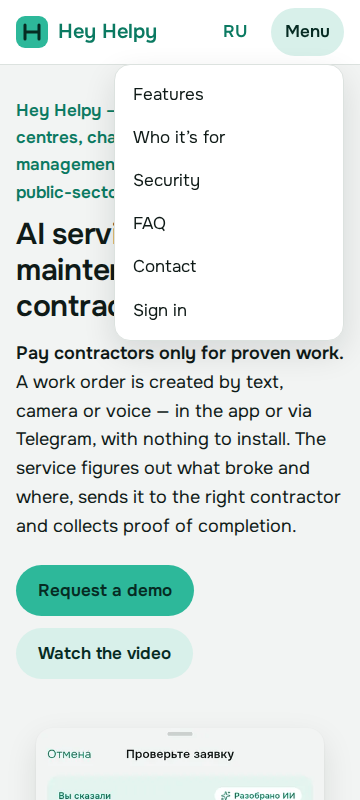
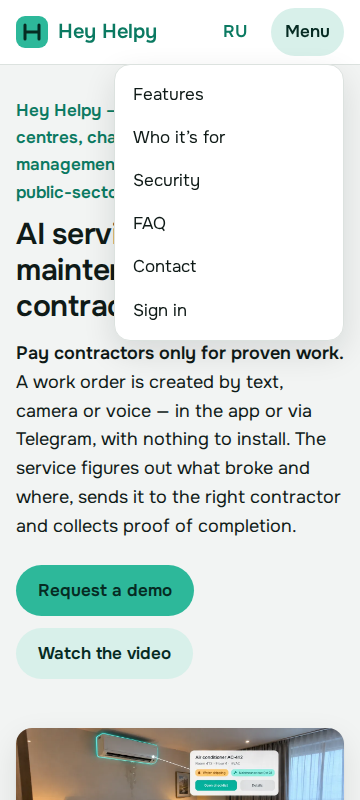
Шаг 33 (блок 7): e2e — английские фразы, все 19 сценариев зелёные; герой сайта 54 КБ, Lighthouse 99–100; снимки сайта 360 px

Changed region(s): [[0.0306, 0.9062, 0.9778, 1.0]]

diff --git a/site/ru/index.html b/site/ru/index.html
@@ -160,7 +160,7 @@
     <p class="lead"><strong>Платим подрядчику только за доказанную работу.</strong> Заявку создают текстом, камерой или голосом — в приложении или в Telegram, без установки. Сервис сам понимает, что и где сломалось, отправляет нужному подрядчику и собирает доказательства выполнения.</p>
     <p class="actions"><a class="btn" href="https://t.me/HeyHelpy_bot?start=demo">Запросить демо</a> <a class="btn ghost" href="#video">Смотреть видео</a></p>
   </div>
-  <figure class="ill "><img src="../img/ill-hotel_ac.webp" width="1600" height="900" alt="Гостиничный номер: над кондиционером — AR-метка с диагностикой и открытой заявкой" fetchpriority="high" decoding="async"><figcaption>Иллюстрация</figcaption></figure>
+  <figure class="ill "><img src="../img/ill-hotel_ac.webp" width="1200" height="675" alt="Гостиничный номер: над кондиционером — AR-метка с диагностикой и открытой заявкой" fetchpriority="high" decoding="async"><figcaption>Иллюстрация</figcaption></figure>
 </section>
 
 <section aria-labelledby="problem">

diff --git a/site/index.html b/site/index.html
@@ -160,7 +160,7 @@
     <p class="lead"><strong>Pay contractors only for proven work.</strong> A work order is created by text, camera or voice — in the app or via Telegram, with nothing to install. The service figures out what broke and where, sends it to the right contractor and collects proof of completion.</p>
     <p class="actions"><a class="btn" href="https://t.me/HeyHelpy_bot?start=demo">Request a demo</a> <a class="btn ghost" href="#video">Watch the video</a></p>
   </div>
-  <figure class="ill "><img src="img/ill-hotel_ac.webp" width="1600" height="900" alt="Hotel room: an AR label above the air conditioner with diagnostics and an open work order" fetchpriority="high" decoding="async"><figcaption>Illustration</figcaption></figure>
+  <figure class="ill "><img src="img/ill-hotel_ac.webp" width="1200" height="675" alt="Hotel room: an AR label above the air conditioner with diagnostics and an open work order" fetchpriority="high" decoding="async"><figcaption>Illustration</figcaption></figure>
 </section>
 
 <section aria-labelledby="problem">

diff --git a/docs/reports/step-33.md b/docs/reports/step-33.md
@@ -8,9 +8,9 @@
 - [x] 1. Название «Hey Helpy» везде, английский по умолчанию
 - [x] 2. Убрать Россию и СНГ из того, что видят люди
 - [x] 3. Поставщик ИИ — через настройки (`_shared/ai.ts`, секреты `AI_*`)
-- [ ] 4. Демо-данные на английском (Refresh demo сам переименовывает)
-- [ ] 5. Новые изображения в приложении и на сайте
-- [ ] 6. Кадры и документы на английском
+- [x] 4. Демо-данные на английском (Refresh demo сам переименовывает)
+- [x] 5. Новые изображения в приложении и на сайте
+- [x] 6. Кадры и документы на английском
 - [ ] 7. Проверки и отчёт
 
 ## Что сделано
@@ -54,6 +54,55 @@
 - `CLAUDE.md` → «Edge Functions»: новые секреты и как переключить. Функции **не выкладывал**.
 - ⚠ Имена моделей и адреса Yandex в коде остались (`ai.ts`, `vision.ts`, `stt.ts`) — они нужны для работы по умолчанию; людям они не видны.
 
+### 4. Демо-данные на английском
+**Refresh demo сам переименовывает всё по постоянным id** — в SQL Editor ничего делать не нужно.
+- `supabase/seed/demo_history.sql` и `demo.sql`: 353 строковых значения переведены таблицей соответствий (заявки, описания, чек-листы, планы ТО, помещения, оборудование, адреса, подрядчики, гости Telegram). То, что заводит только `demo.sql` (компания, «Demo Tower», его 4 помещения, ClimaService / ElectroPro, имена демо-пользователей, если они остались прежними), переименовывается отдельным блоком 3a в `demo_history.sql`.
+- **Сообщения скрипта для того, кто его запускает** (`raise notice / exception`), и **названия видов работ в базе** («Климат», «Электрика»… — по ним сид ищет слои; в интерфейсе они показываются из `name_i18n`, по-английски) — ⚠ оставлены по-русски.
+- Задачи ППР: подпись периода — `period_label(…, 'en')` («AC maintenance — October 2026»).
+- Чек-лист задачи 279 пересинхронизируется с планом 809 после его обновления (иначе при одном запуске оставались прежние пункты).
+- **Сформированные акты демо-компании удаляются** (снимки с русскими строками и рублями; формируются заново в «Акты подрядчикам»). ⚠ Файлы PDF остаются в хранилище.
+- **Язык демо-пользователей — `en`** (`profiles.locale`; у демо-администратора был `ru`).
+- Схемы этажей (`tools/demo_plans/plans.json` → PNG и блок 5d): подписи по-английски, плашка «DEMO PLAN · not a real floor plan». Нарисованные фото (`tools/demo_photos/`): «Serviced ✓ 10.2026», шильдик «AC-301».
+- Код, искавший демо по русским названиям, переведён на id: `refresh-demo.yml` (проверка числа заявок), `contractor_acts_screen.dart` (подрядчик по умолчанию — `kDemoClimaServiceId`).
+- **Проверено локально**: `tools/db_test/run.sh` — 16 наборов, 0 ошибок, демо-сиды дважды без ошибок. Отдельно — **как будет на рабочей базе**: сначала старые русские сиды из `main`, затем новый `demo_history.sql` → в заявках, чек-листах, объектах, помещениях, оборудовании, планах, регионах, бригадах, профилях демо-компании **кириллицы — 0**, заявок 94, регионов 3 (Europe, North America, Middle East), ставки — только USD.
+
+| Было | Стало |
+|---|---|
+| «Демо БЦ» | Demo Properties |
+| «БЦ «Демо»», Белград | Demo Tower, Belgrade (координаты те же) |
+| ТЦ / Склад / Офис / Отель «Демо …» | Demo Plaza Mall, Demo Logistics Warehouse, Demo City Office, Demo Park Hotel |
+| Москва · Офис 1…5 | New York · Office 1…5 (Midtown, Financial District, Chelsea, Hudson Yards, Upper East Side — координаты Манхэттена) |
+| Абиджан · Ivoire Trade Center | London · Thames House (Southwark) |
+| Пекин · Офис 1; Шэньчжэнь · Офис 1, 2 | Riyadh · Office 1 (KAFD); Abu Dhabi · Office 1, 2 (Al Maryah, Al Reem) |
+| Стамбул · Офис 1, 2 | Berlin · Office 1, 2 (Mitte, Kreuzberg) |
+| Белград — «Хаб 1», «Skyline»; Дубай · Офис 1, 2 | Belgrade — Hub 1, Skyline; Dubai · Office 1, 2 |
+| Регионы: Европа, СНГ, Ближний Восток, Африка, Азия (5) | 901 Europe (RS, DE, GB), 902 North America (US), 903 Middle East (AE, SA) — **3**; ⚠ 904–905 **удаляются** (их объекты перенесены) |
+| Подрядчики КлиматСервис, ЭлектроПро, МосКлимат, ЭлектроСити, ЧистоГрад, ЛифтСервис, Gulf FM, Boğaziçi Teknik, Temiz Hizmet, Ivoire Maintenance, Huaxin FM, Shenzhen Clean | ClimaService, ElectroPro, NYC Climate, CityElectric, CleanCity, LiftService, Gulf FM Services, Berlin Technik, Berlin Clean, Thames Maintenance, Riyadh FM, Abu Dhabi Clean |
+| Бригады «Пекин», «Шэньчжэнь» | «Riyadh», «Abu Dhabi» (зоны — по городу) |
+| «Переговорная, 3 этаж» и т. п. | «Meeting room, floor 3», «Director's office, floor 3», «Server room, floor 3», «Kitchen, floor 3», «Lobby», «Restrooms»… (номера 301–304 и т. д. — те же) |
+| «Кондиционер КД-301» и др. | «Air conditioner AC-301», «Air conditioner AC-302», «Server rack R1», «Kitchen light», «Fire extinguisher, meeting room»… ; инв. номера КЛ- / ЭЛ- / ПБ- / ИТ- → HV- / EL- / FS- / IT- |
+| Заявки («Капает вода с кондиционера», «Не работает розетка у стойки ресепшена»…) | «Water dripping from the AC», «Socket at the reception desk not working»… |
+| Ставки ₽ (4 500 / 2 500 …) | USD: ClimaService 60 / 35, ElectroPro 50 / 30, NYC Climate 70 / 40 |
+| Гость «Ольга С.», сотрудник «Анна Д.» | «Emma W.», «Anna D.» |
+
+### 5. Новые изображения
+- `assets/marketing/`: 8 файлов переименованы `git mv` в латиницу (`hotel_ac`, `fridge`, `faucet`, `led`, `cctv`, `pipe`, `phone`, `iso`). Размеры 1672 × 941 (у `faucet` 1672 × 940, у `phone` 941 × 1672).
+- **Опечатка на `fridge.png`** «Check thermostat **seting**» исправлена скриптом `tools/marketing/fix_fridge_typo.py` (по образцу владельца; размер шрифта 17 подобран по ширине исходной строки, ≈ 200 px), исходник — `fridge_original.png`. Вырезки: `docs/screens/marketing/fridge-typo-before.png` → `fridge-typo-after.png` — шрифт и цвет совпадают с соседними строками. ⚠ Pillow поставил системным пакетом `python3-pil` (pip в контейнере нет).
+- **WebP** (качество 82): для приложения — 1200 px, `assets/illustrations/` (**664 КБ** на 8 картинок против 19 МБ PNG; в `pubspec.yaml` подключена только эта папка), для сайта — 1600 px, `assets/site/ill-*.webp` (58–292 КБ).
+- **Сайт** (главная, RU и EN): герой — `hotel_ac` (единственная картинка без `loading="lazy"`); «Как это работает» — `phone`; новый раздел «Любое оборудование — один сценарий / Any unit, same flow» — `fridge`, `faucet`, `led`, `cctv`; «Hey Helpy Spatial» — `iso`; «Доказательство выполнения / Proof of completion» — `pipe`. У всех — `alt` на языке страницы, `width` / `height`, подпись «Иллюстрация / Illustration».
+- **Приложение** (только токены и компоненты): новый компонент `AppIllustration` (`lib/core/design/illustration.dart`, тест `test/illustration_test.dart`: файлы на месте, в сборке только WebP, подпись «Illustration», описание для читалок); `AppEmptyState(image:)`.
+  - вход на ПК (≥ 900 px): справа `hotel_ac` с подписью «Pay contractors only for proven work»;
+  - онбординг: 3 слайда (`phone`, `fridge`, `iso`) с подписями, точками и стрелками;
+  - «Камера-помощник» и «AR-метки»: при первом открытии — шторка «How AR labels work» с `phone` (один раз на устройство);
+  - пустые состояния: «Нет заявок» — `faucet`, «Оборудования пока нет» — `led`.
+  - Все тексты — RU / EN в `.arb`.
+
+### 6. Кадры и документы на английском
+- `/screens` и `--pitch` — **только английский интерфейс**: модуль `tools/screens/en_ui.mjs` переводит русские подписи в селекторах по `.arb` (1446 пар), язык профиля подменяется на `en`, прогонов «(EN)» больше нет; названия демо-данных в скриптах — английские. Новый режим **`--local`** — съёмка на локальной базе с новыми демо-данными (до Refresh demo), снимки с пометкой «ПРЕДПРОСМОТР».
+- `docs/DEMO_SCRIPT.md` — английская версия сценария показа на 2 минуты (подписи кнопок сверены с `app_en.arb`), русская оставлена и обновлена под новые названия; `DEMO_DAY_CHECKLIST.md`, `docs/screens/pitch/README.md` — новые названия.
+- `CLAUDE.md`: «Что это» — цель и рынки, название, английский по умолчанию, USD, поставщик ИИ, новые демо-данные (таблица id не менялась), `/screens` на английском.
+- Сквозные тесты остаются на русском интерфейсе (проверяют поведение; язык задаётся в `e2e.mjs` и `prep.sql`), голосовые фразы — английские, ассерты — на новых названиях.
+
 ## Журнал
 | Время (UTC) | Что сделано | Коммит |
 |---|---|---|
@@ -61,6 +110,9 @@
 | 30.10 | Блок 1: «Hey Helpy» везде, `en` по умолчанию, сайт EN в корне, сторож; 0027 — в «Применённые» | блок 1 |
 | 30.10 | Блок 2: сайт без РФ / Yandex, рынки и регионы, USD по умолчанию, пример зоны | блок 2 |
 | 30.10 | Блок 3: `_shared/ai.ts`, секреты `AI_*`, `SpeechToText`, тесты deno | блок 3 |
+| 30.10 | Блок 4: демо-данные EN, проверка «как на рабочей базе» | блок 4 |
+| 30.10 | Блок 5: иллюстрации, сайт, приложение | блок 5 |
+| 30.10 | Блок 6: /screens EN, DEMO_SCRIPT EN, CLAUDE.md; e2e 15 из 18 → исправления | блок 6 |
 
 ## Где остановился
-Блоки 1–3 готовы. Следующий — блок 4: `supabase/seed/demo_history.sql` (переименование демо-строк по id на английский), `demo.sql`, схемы `tools/demo_plans`, тесты `tools/db_test` / `tools/e2e`.
+Блоки 1–6 готовы. Идёт блок 7: перезапуск сценариев e2e 1, 3, 4, 9; затем Lighthouse и html-validate сайта, `/screens --local`, размеры сборок, итог.
